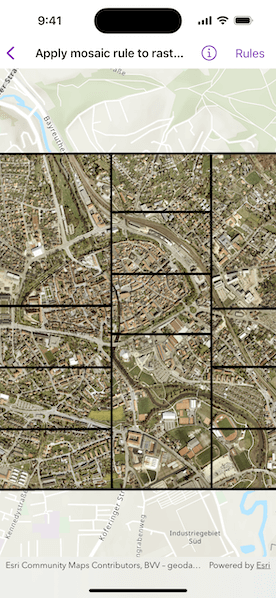
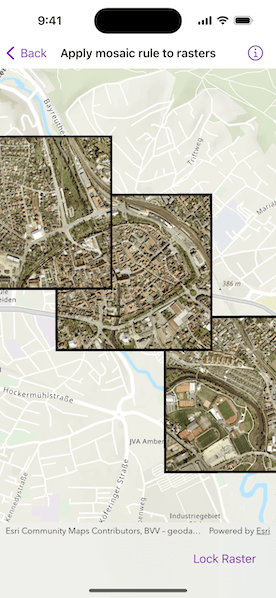
update project file, image and move rule selection to view

diff --git a/Shared/Samples/Apply mosaic rule to rasters/ApplyMosaicRuleToRastersView.swift b/Shared/Samples/Apply mosaic rule to rasters/ApplyMosaicRuleToRastersView.swift
@@ -25,6 +25,9 @@ struct ApplyMosaicRuleToRastersView: View {
     /// The data model for the sample.
     @StateObject private var model = Model()
     
+    /// Holds the reference to the currently selected rule.
+    @State private var ruleSelection: RuleSelection = .objectID
+    
     var body: some View {
         MapViewReader { mapProxy in
             MapView(map: model.map)
@@ -43,7 +46,7 @@ struct ApplyMosaicRuleToRastersView: View {
                             .shadow(radius: 50)
                     }
                 }
-                .task(id: model.ruleSelection) {
+                .task {
                     guard let rasterLayer = model.map.operationalLayers.first as? RasterLayer else {
                         return
                     }
@@ -62,21 +65,19 @@ struct ApplyMosaicRuleToRastersView: View {
                 }
                 .toolbar {
                     ToolbarItemGroup(placement: .bottomBar) {
-                        Picker("Mosiac Rules", selection: $model.ruleSelection) {
+                        Picker("Mosiac Rules", selection: $ruleSelection) {
                             ForEach(RuleSelection.allCases, id: \.self) { rule in
                                 Text(rule.label)
                             }
                         }
-                        .onChange(of: model.ruleSelection) { ruleSelection in
-                            Task {
-                                model.imageServiceRaster.mosaicRule = ruleSelection.rule
-                                await mapProxy.setViewpoint(
-                                    Viewpoint(
-                                        center: model.imageServiceRasterCenter,
-                                        scale: 25000
-                                    )
+                        .task(id: ruleSelection) {
+                            model.imageServiceRaster.mosaicRule = ruleSelection.rule
+                            await mapProxy.setViewpoint(
+                                Viewpoint(
+                                    center: model.imageServiceRasterCenter,
+                                    scale: 25000
                                 )
-                            }
+                            )
                         }
                         .pickerStyle(.automatic)
                     }
@@ -115,11 +116,11 @@ private enum RuleSelection: CaseIterable, Equatable {
             mosaicRule.mosaicMethod = .northwest
             mosaicRule.mosaicOperation = .first
         case .center:
-            // Sets the mosiac method to center and uses blend operation.
+            // Sets the mosaic method to center and uses blend operation.
             mosaicRule.mosaicMethod = .center
             mosaicRule.mosaicOperation = .blend
         case .byAttribute:
-            // Sets the mosiac method to attribute and sorts on "OBJECTID"
+            // Sets the mosaic method to attribute and sorts on "OBJECTID"
             // field of the service.
             mosaicRule.mosaicMethod = .attribute
             mosaicRule.sortField = "OBJECTID"
@@ -135,9 +136,6 @@ private enum RuleSelection: CaseIterable, Equatable {
 private extension ApplyMosaicRuleToRastersView {
     @MainActor
     class Model: ObservableObject {
-        /// Holds the reference to the currently selected rule.
-        @Published var ruleSelection: RuleSelection = .objectID
-        
         /// A map with viewpoint set to Amberg, Germany.
         let map: Map = {
             let map = Map(basemapStyle: .arcGISTopographic)
